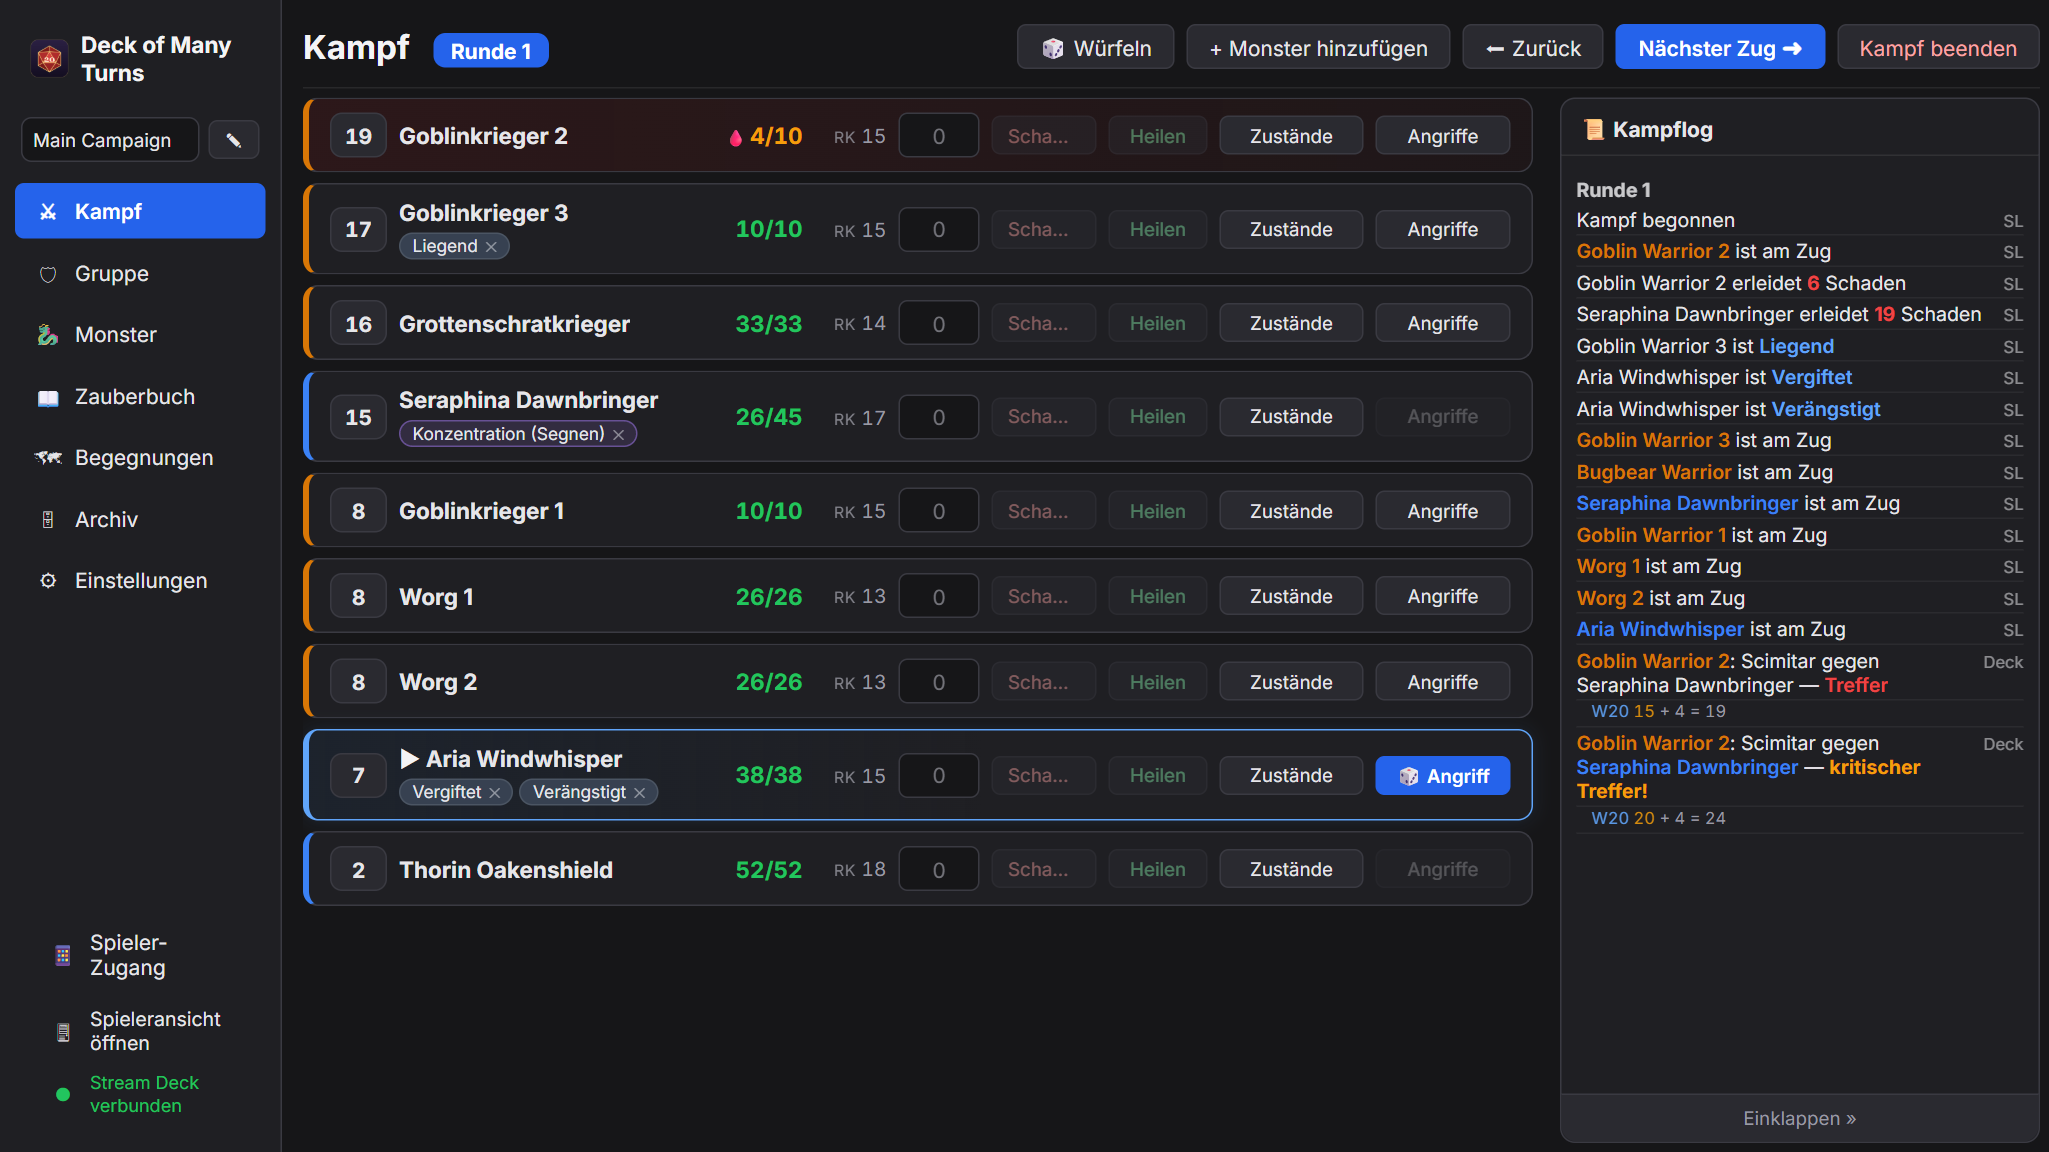
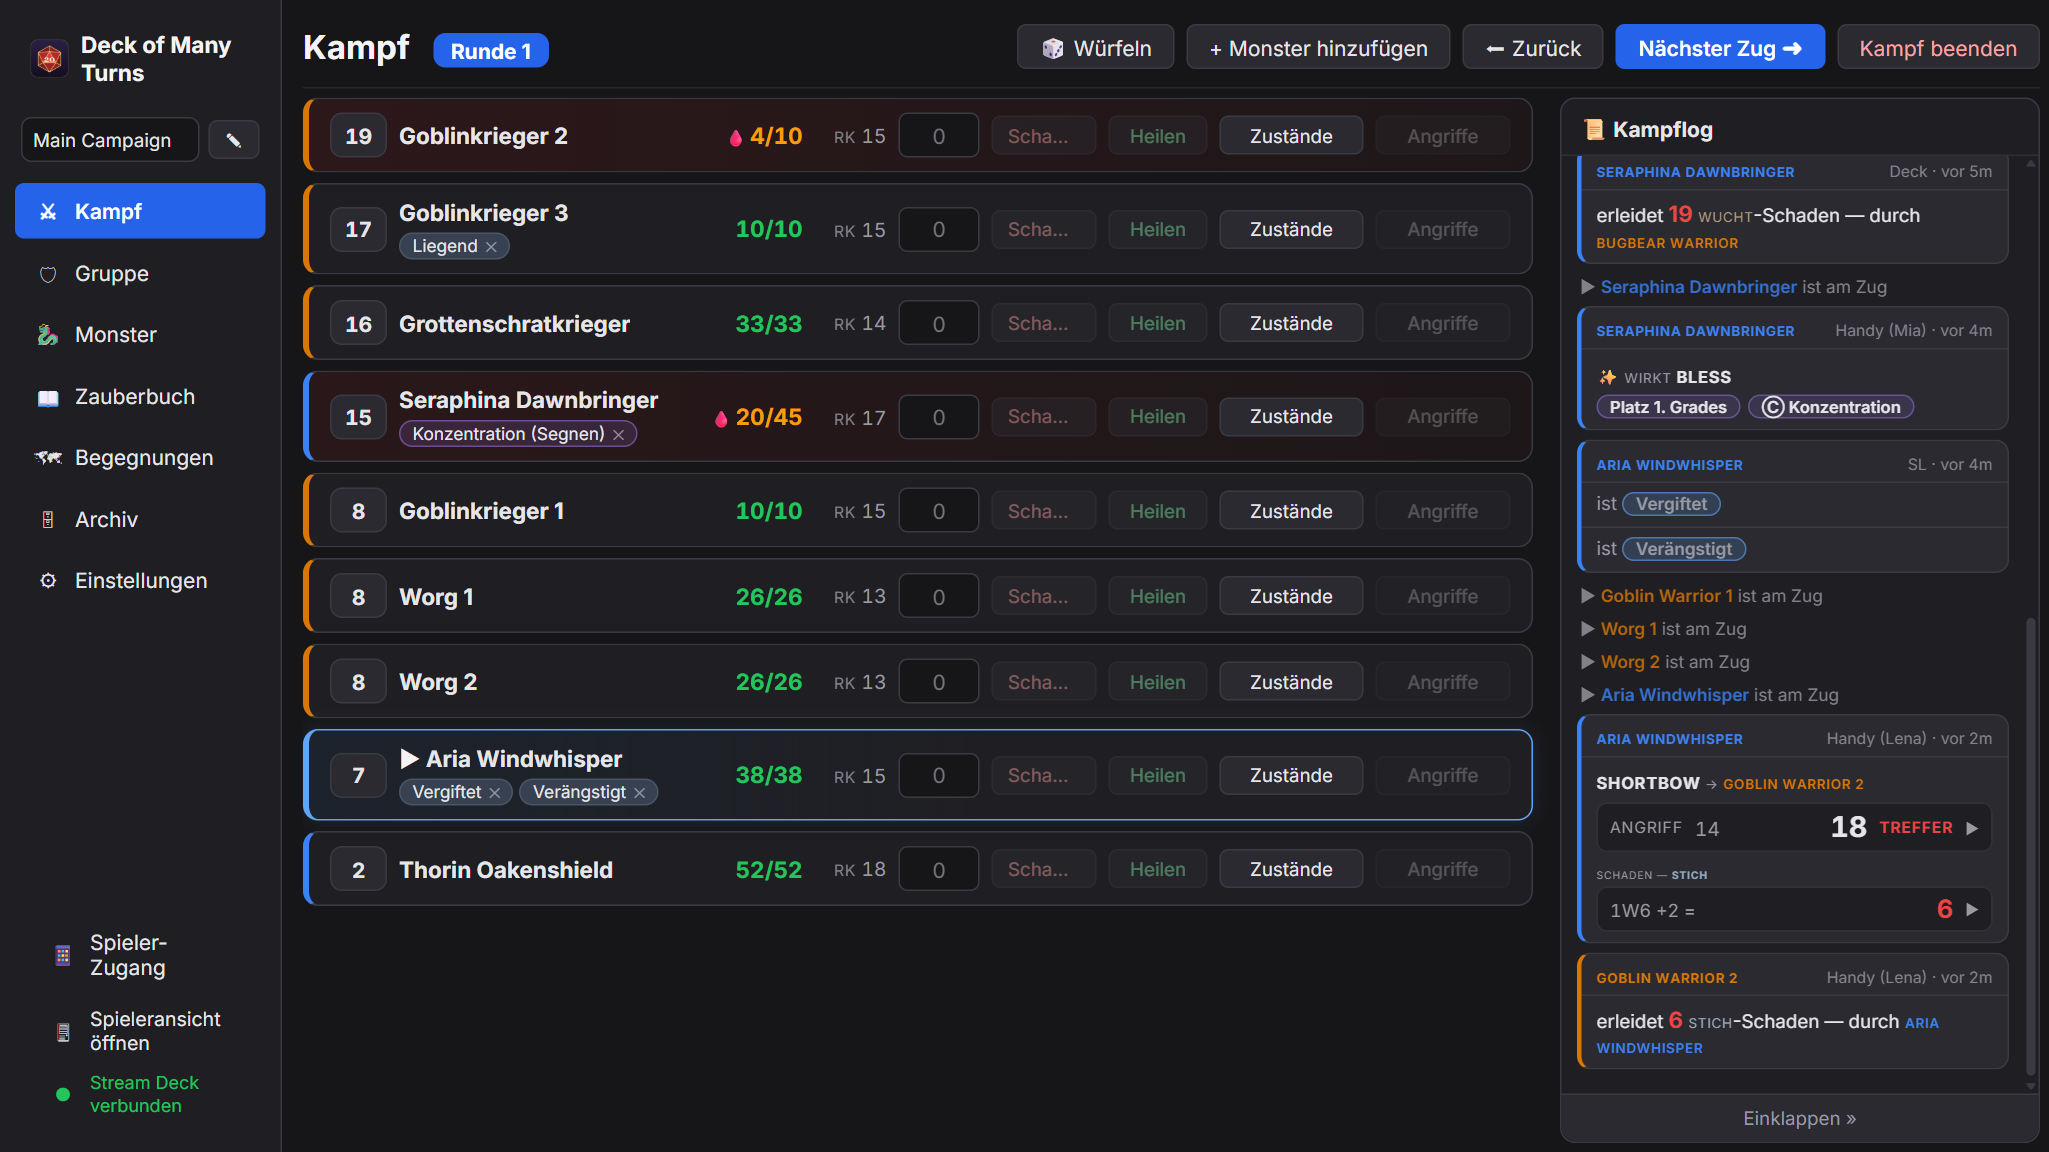
Release 3.4.0: combat-log cards — version bump, README, changelog, fresh screenshots

diff --git a/README.md b/README.md
@@ -23,7 +23,7 @@ already in progress.
 ![React](https://img.shields.io/badge/React-19-61DAFB?logo=react&logoColor=black)
 ![TypeScript](https://img.shields.io/badge/TypeScript-5.6-3178C6?logo=typescript&logoColor=white)
 ![Stream Deck](https://img.shields.io/badge/Stream%20Deck-SDK%20v2-000000?logo=elgato&logoColor=white)
-![Release](https://img.shields.io/badge/release-v3.3.0-success)
+![Release](https://img.shields.io/badge/release-v3.4.0-success)
 
 </div>
 
@@ -80,7 +80,7 @@ name, and the combat log keeps the story on the right.</i>
 | 📺 **Player View** | Display-only second-monitor window. Monsters show no numbers — just a progressive "bloodied" reddening. Auto-fits any actor count. **Styled for chroma keying.** |
 | 📱 **Player phone companion** | [Opt-in LAN webpage](#player-phone-companion) for players' phones: claim your character via QR code, follow initiative, deal damage/heal, roll your attacks — gated to your turn. No app installs. |
 | 🎛 **Stream Deck plugin** | Turn control, damage/heal numpad, multi-actor conditions, monster attack rolls, and a dice roller — all on hardware keys that render their own labels. |
-| 📜 **Combat log & archive** | [Every action logged](#combat-log--archive) with who-did-what-to-whom from every surface (DM window, deck, phones); ended combats archive with their full log. |
+| 📜 **Combat log & archive** | [Every action logged as cards](#combat-log--archive) — attack rolls with expandable dice breakdowns, casts, saves, conditions — and editable by the DM: fixing an amount or deleting an entry re-applies the HP difference. Ended combats archive with their full log. |
 | 🔊 **Kenku FM audio** | [Sound effects and battle playlists](#kenku-fm-audio) via Kenku FM's remote API: event sounds, per-attack sounds with trigger points, encounter playlists, a soundboard panel. |
 | 🎨 **Themes** | Dark (default), PHB Style, Default Electron, Light. |
 | 🗣 **English & German** | [Full UI localization](#language) across both windows *and* the deck. Game terms follow the SRD 5.2.1 in each language. |
@@ -108,7 +108,7 @@ for anyone integrating their own hardware or overlays.
 
 Grab both files from the [**latest release**](../../releases/latest):
 
-1. **App** — run `Deck of Many Turns Setup 3.3.0.exe` (NSIS installer, choose your own directory).
+1. **App** — run `Deck of Many Turns Setup 3.4.0.exe` (NSIS installer, choose your own directory).
 2. **Stream Deck plugin** — double-click `com.dmtools.dnd-combat-tracker.streamDeckPlugin`;
    the Stream Deck app installs it and registers the bundled picker profiles.
 3. Start the app. The plugin connects within a few seconds — the DM window's sidebar
@@ -312,12 +312,25 @@ view is styled for it:
 
 ### Combat log & archive
 
-Every action lands in a **combat log** — damage, healing, attack rolls with their d20
-results, saving throws, conditions, downs, kills, turn and round changes — tagged with
-where it came from (DM window, Stream Deck, or a player's phone). The Combat screen
-shows it in a collapsible right-hand sidebar; phones get a one-line ticker that pulls
-up into the full log. The player-facing log hides monster attack-roll numbers (players
-see *"Goblin 2: Scimitar vs Aria — hit"*, not the to-hit math). Log lines are stored
+Every action lands in a **combat log** rendered as cards, one per character: attack
+rolls show both advantage/disadvantage d20s with the dropped die struck through and a
+big hit/miss/crit verdict, damage rows carry their type and dice composition and click
+open into the full per-die breakdown, spell casts get slot and concentration chips,
+saving throws show die, modifier and total against the DC. Rounds, turns and combat
+bounds divide the stream as slim cardless rules. Everything is tagged with where it
+came from (DM window, Stream Deck, or a player's phone).
+
+The DM can **edit any entry in place** — hover a block for ✎/🗑. Correcting a damage
+or healing amount re-applies the difference to the target's HP (deleting the hit that
+downed a PC brings them back up); bare entries from the dice roller can be enriched
+with the missing attacker and a damage type. Dead monsters stay dead — edits to their
+history are record-only.
+
+The Combat screen shows the log in a collapsible right-hand sidebar; phones get a
+one-line ticker that pulls up into the full card view. Live, the player-facing log
+shows what was thrown but not how it landed — *"Scimitar → Aria: hit"* plus the
+damage composition (*2d6 +2*), never the to-hit math or per-die results. Once a fight
+is archived, its full breakdowns open up to players too. Log lines are stored
 structurally and rendered through the localization layer, so switching language
 re-renders history too.
 
@@ -702,7 +715,7 @@ npm install
 npm run dev        # live-reload dev session
 npm run dev:mobile # (second terminal) rebuild the player web bundle on change
 npm run build      # compile main/preload/renderer + player web bundle to out/
-npm run dist       # → release/Deck of Many Turns Setup 3.3.0.exe (NSIS)
+npm run dist       # → release/Deck of Many Turns Setup 3.4.0.exe (NSIS)
 ```
 
 The player web page is served as plain static files from `out/mobile` in dev and

diff --git a/CHANGELOG.md b/CHANGELOG.md
@@ -7,6 +7,51 @@ to its GitHub release, where the installer and the packed plugin are attached.
 
 ## [Unreleased]
 
+## [3.4.0] — 2026-08-20
+
+### Added
+
+- **Combat log as cards** — the log renders one card per character instead of
+  a flat line list: attack rolls show both advantage/disadvantage d20s with
+  the dropped die struck through and a big hit/miss/crit verdict, damage rows
+  carry their type and dice composition and click open into the full per-die
+  breakdown, spell casts get slot and concentration chips, saving throws show
+  die, modifier and total against the DC. Rounds, turns and combat bounds
+  divide the stream as slim cardless rules. Shared by the DM sidebar, the
+  Combat Archive and the phones.
+- **Editable log entries** — hover a block in the live sidebar for ✎/🗑.
+  Actors, targets, amounts, rolls, outcomes, damage types and conditions can
+  be corrected in place; damage and healing edits re-apply the HP difference
+  to the target, and deleting an entry reverts what it did (deleting the hit
+  that downed a PC brings them back up, with concentration handled). Dead
+  monsters are never resurrected — edits to their history are record-only.
+- **Enrichable damage entries** — bare "takes 6 damage" lines from the dice
+  roller can be given the missing attacker and a damage type from the same
+  editor.
+- Saving throws record their d20 and the DC; casts record whether they hold
+  concentration — save rows and cast chips show them on every surface.
+
+### Changed
+
+- **Player-facing redaction** — the live phone log now shows a damage roll's
+  thrown composition ("2d6 +4"); only the per-die results and attack-roll
+  numbers stay DM-side. Past Combats browsed from a phone are no longer
+  redacted at all — the fight is history, breakdowns included.
+- Unpaired damage with dice math (area spells, save-based casts, dice-roller
+  hits) shows its roll line under the "takes X damage" sentence, so the roll
+  is visible even without an attack card.
+- The combat-log sidebar auto-scrolls only when new entries arrive — never
+  while an entry is being edited — and the archive's log uses a fixed-width
+  card column.
+
+### Fixed
+
+- Damage compositions no longer repeat the modifier ("1W4+2 +2 = 5"): the
+  bracket group is prefixed with the plain dice term.
+- Long German verdicts ("kritischer Treffer!") wrapped the attack-roll row to
+  two lines; card verdicts are now compact ("Krit!") and never wrap, and the
+  save row's DC ("SG 14") stays on one line.
+
 ## [3.3.0] — 2026-08-19
 
 ### Added
@@ -307,7 +352,8 @@ First packaged release.
   Picker profiles for MK.2 (5×3), XL (8×4) and 9×4 decks.
 - Four themes; local-only JSON storage.
 
-[Unreleased]: https://github.com/Lil-Dank/deck-of-many-turns/compare/v3.3.0...HEAD
+[Unreleased]: https://github.com/Lil-Dank/deck-of-many-turns/compare/v3.4.0...HEAD
+[3.4.0]: https://github.com/Lil-Dank/deck-of-many-turns/releases/tag/v3.4.0
 [3.3.0]: https://github.com/Lil-Dank/deck-of-many-turns/releases/tag/v3.3.0
 [3.2.0]: https://github.com/Lil-Dank/deck-of-many-turns/releases/tag/v3.2.0
 [3.1.2]: https://github.com/Lil-Dank/deck-of-many-turns/releases/tag/v3.1.2
